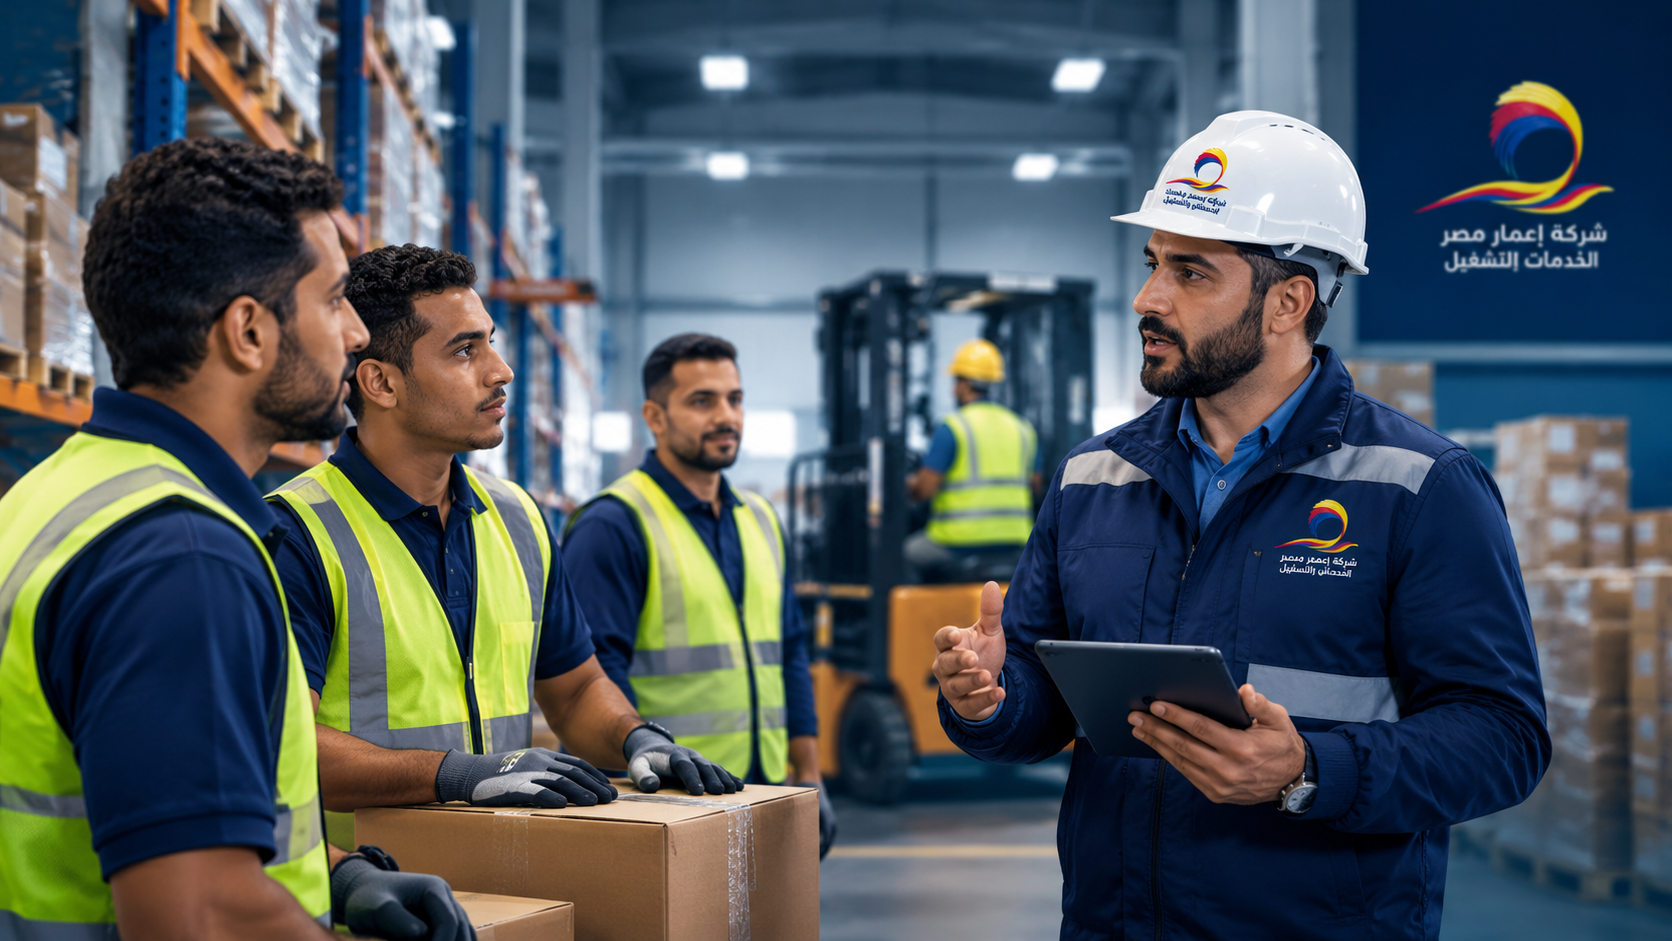
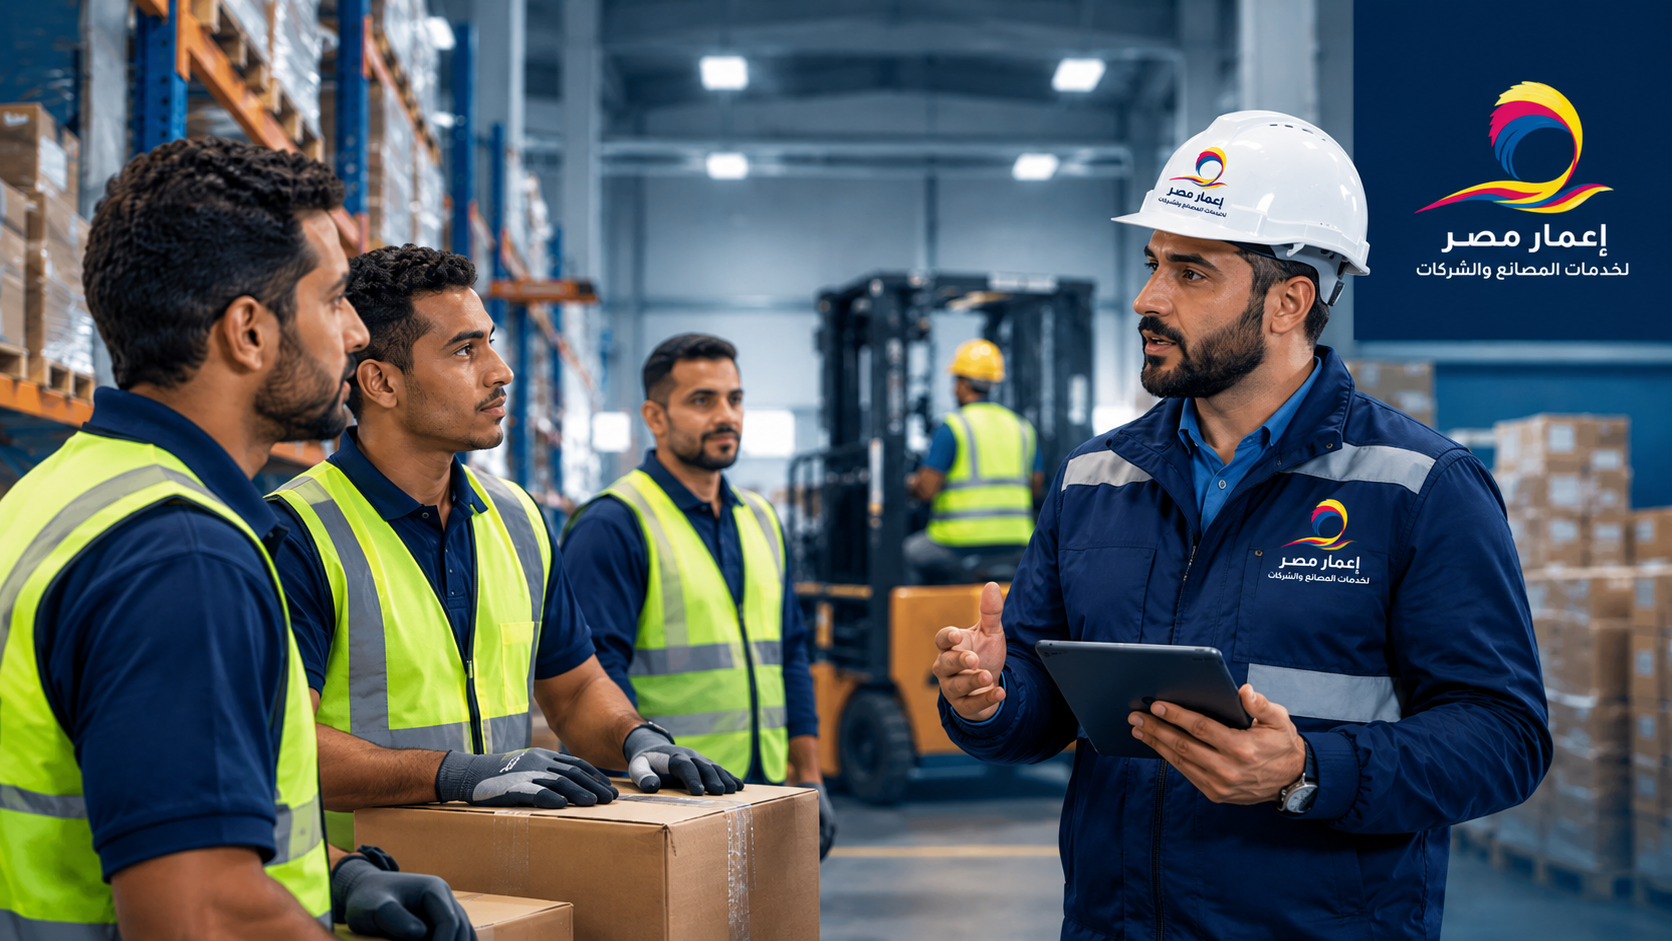
Update Emaar Misr website

diff --git a/src/pages/Home.jsx b/src/pages/Home.jsx
@@ -54,14 +54,14 @@ export default function Home() {
     return () => observer.disconnect();
   }, []);
 
-  // أضف شعارات العملاء الحقيقية هنا عند توفرها.
-  // مثال:
-  // { name: "Company Name", logo: "/partners/company-logo.png" }
-
   const partners = [
   {
     name: "BETA ELECTRIC",
     logo: "/partners/beta-electric.jpg",
+  },
+    {
+    name: "AMAZON",
+    logo: "/partners/AMAZON.png",
   },
   {
     name: "Eastern Company S.A.E.",
@@ -72,7 +72,7 @@ export default function Home() {
     logo: "/partners/fine.png",
   },
   {
-    name: "شركة النيل",
+    name: "شركة يونيباك النيل",
     logo: "/partners/partner-nile.svg",
   },
   {
@@ -90,7 +90,30 @@ export default function Home() {
   {
     name: "Suzuki",
     logo: "/partners/Suzuki.png",
-  }
+  },
+    {
+    name: "dsepak",
+    logo: "/partners/debak.png",
+  },
+    {
+    name: "Serioplast",
+    logo: "/partners/Serioplast.png",
+  },
+  {
+    name: "ABRAR TRADING ",
+    logo: "/partners/Abrar.png",
+  },
+  {
+    name: "Edita ",
+    logo: "/partners/edita.png",
+  },
+  
+  {
+    name: "Cairopak ",
+    logo: "/partners/cairopak.png",
+  },
+  
+
 ];
 
   const services = [
@@ -298,7 +321,7 @@ export default function Home() {
       </section>
 
 {/* MOVING PARTNERS LOGOS */}
-{partners.length > 0 && (
+{partners.length > 1 && (
   <section className="reveal-on-scroll partners-section bg-white py-16 sm:py-20">
     <div className="mx-auto max-w-7xl px-6 sm:px-10 lg:px-12">
       <div className="mb-10 text-center">
@@ -316,7 +339,7 @@ export default function Home() {
       </div>
     </div>
 
-    {/* الشريط المتحرك */}
+    {/* Partenars-Line*/}
     <div
       className="partners-marquee"
       aria-label="شعارات عملاء وشركاء إعمار مصر"
@@ -340,7 +363,7 @@ export default function Home() {
           ))}
         </div>
 
-        {/* نسخة مكررة للحركة المتواصلة */}
+        {/* Infinty Moving Line*/}
         <div
           className="partners-marquee-group"
           aria-hidden="true"
@@ -770,7 +793,7 @@ function CountUp({
 
     if (!element) return;
 
-    // احترام إعداد تقليل الحركة في الجهاز
+
     const prefersReducedMotion = window.matchMedia(
       "(prefers-reduced-motion: reduce)"
     ).matches;
@@ -792,7 +815,7 @@ function CountUp({
           1
         );
 
-        // تسريع الحركة في البداية وتهدئتها في النهاية
+        // اللوجيك بتاع السيكشن الي فيه ارقام ( عمال - شركات -رضا العملاء)
         const easedProgress = 1 - Math.pow(1 - progress, 3);
 
         const currentCount = Math.floor(
@@ -811,7 +834,7 @@ function CountUp({
       animationFrame = requestAnimationFrame(animate);
     };
 
-    // تبدأ الحركة عندما يظهر الرقم على الشاشة
+    // اللوجيك بتاع بداية الحركة بتاعت الرقم
     observer = new IntersectionObserver(
       ([entry]) => {
         if (entry.isIntersecting) {

diff --git a/src/pages/Services.jsx b/src/pages/Services.jsx
@@ -12,7 +12,6 @@ import {
   FaBolt,
   FaBullseye,
   FaShieldAlt,
-  FaUsers,
   FaArrowLeft,
   FaCheckCircle,
   FaClipboardList,
@@ -462,7 +461,7 @@ export default function Services() {
 
               <div className="mt-9 grid grid-cols-1 gap-6 sm:grid-cols-2">
 
-                {features.map((feature, index) => (
+                {features.map((feature) => (
 
                   <motion.div
                     key={feature.title}

diff --git a/index.html b/index.html
@@ -4,7 +4,7 @@
     <meta charset="UTF-8" />
     <link rel="icon" type="image/svg+xml" href="/e3mqr-icon.svg" />
     <meta name="viewport" content="width=device-width, initial-scale=1.0" />
-    <title>إعمار مصر - لتوظيف العمالة</title>
+    <title>إعمار مصر - لخدمات المصانع والشركات</title>
   </head>
   <body>
     <div id="root"></div>

diff --git a/src/components/Navebar.jsx b/src/components/Navebar.jsx
@@ -57,7 +57,7 @@ export default function Navbar() {
             </span>
 
             <span className="mt-0.5 text-[10px] font-medium tracking-[0.04em] text-[#747E8B] sm:text-[11px]">
-              لخدمات القوى العاملة والتشغيل
+            لخدمات المصانع والشركات
             </span>
           </div>
         </Link>

diff --git a/src/pages/Contact.jsx b/src/pages/Contact.jsx
@@ -13,7 +13,6 @@ import {
   FaExclamationCircle,
   FaHandshake,
   FaBriefcase,
-  FaClock,
   FaShieldAlt,
 } from "react-icons/fa";
 
